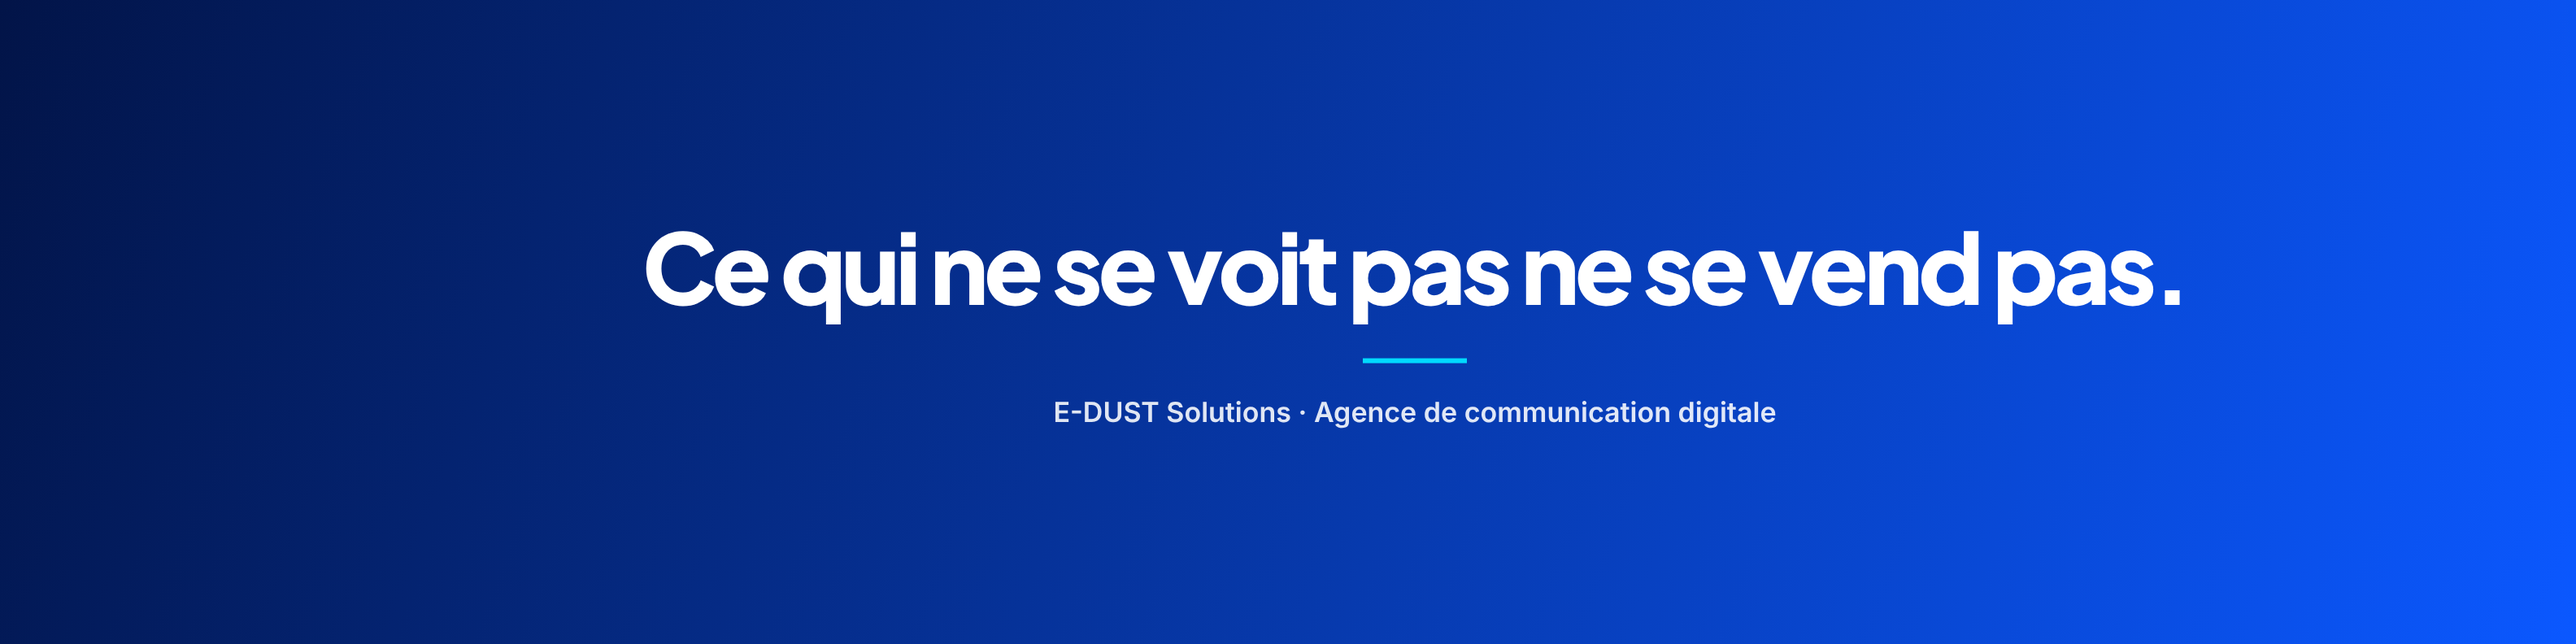
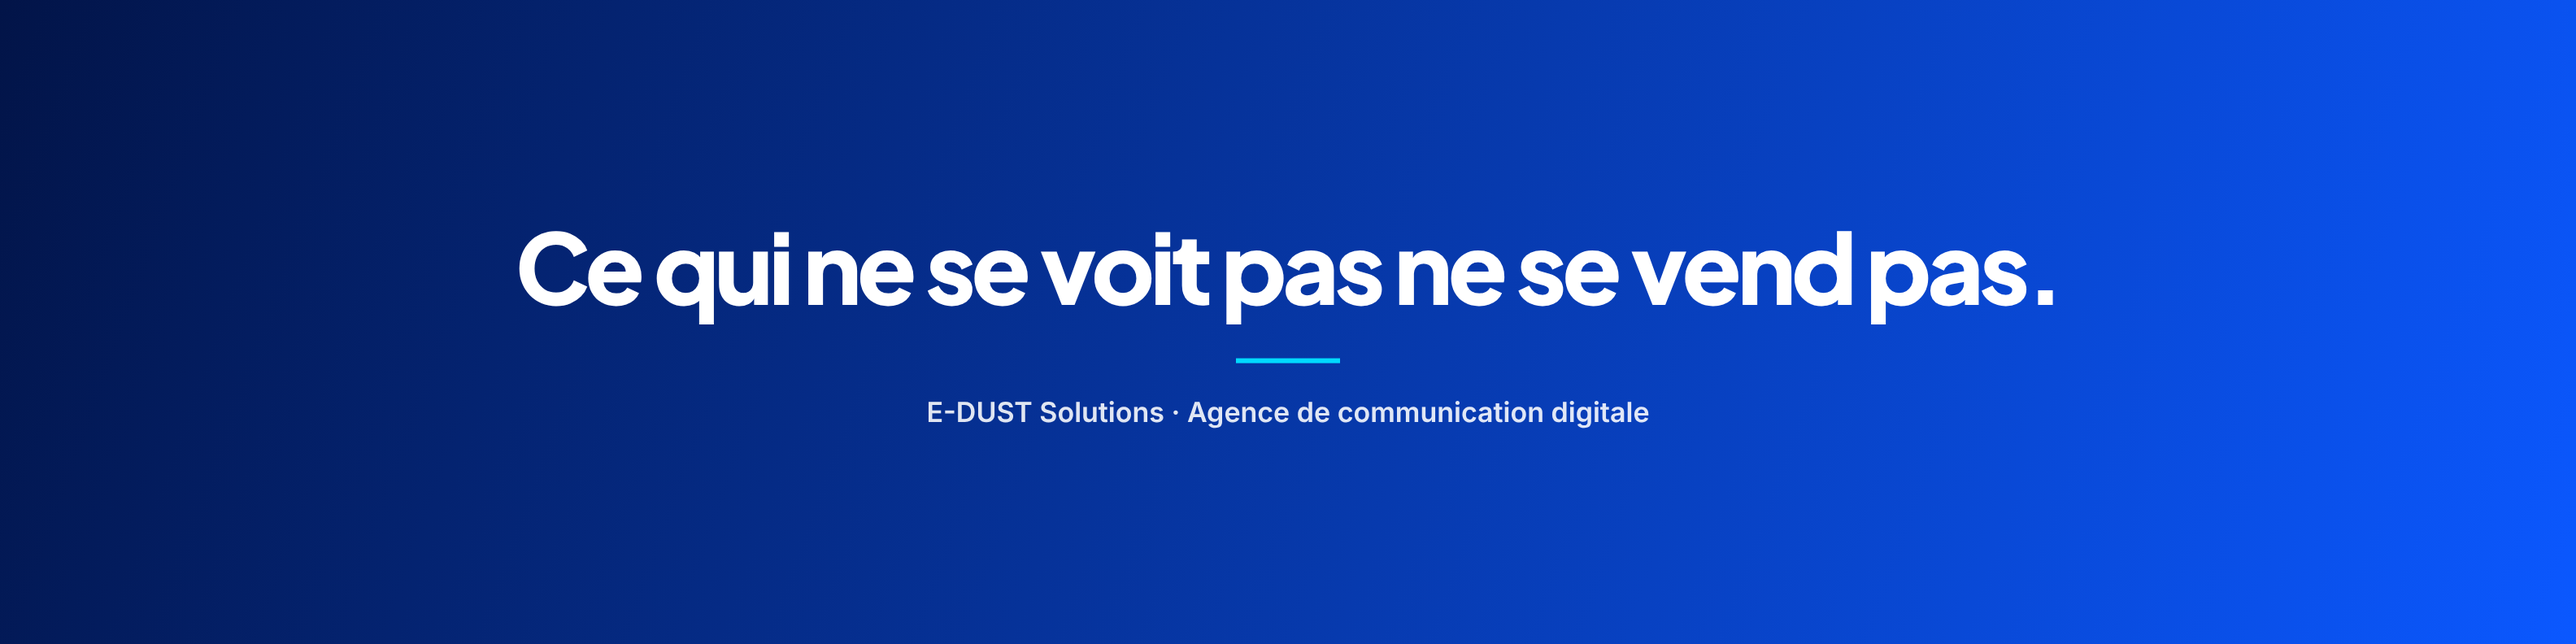
Bannière finale : titre et sous-titre centrés sur la bannière
Claude-Session: https://claude.ai/code/session_01FgwsmmbT7kUC12Hkbk3v3D

Changed region(s): [[0.1875, 0.3636, 0.8438, 0.5152], [0.3438, 0.6061, 0.6875, 0.6667], [0.4688, 0.5455, 0.5625, 0.5758]]

diff --git a/agence/linkedin/source/banniere-degrade-positions.html b/agence/linkedin/source/banniere-degrade-positions.html
@@ -36,7 +36,7 @@
 
 <!-- C. Titre sur une ligne, centré -->
 <section class="bn" id="l">
-  <div style="position:absolute; left:870px; top:50%; transform:translate(-50%,-50%); text-align:center; width:1100px">
+  <div style="position:absolute; left:0; right:0; top:50%; transform:translateY(-50%); text-align:center">
     <h1 style="font-size:60px">Ce qui ne se voit pas ne se vend pas.</h1>
     <div class="bar" style="margin:26px auto 0"></div>
     <p class="t" style="margin-top:20px; color:rgba(255,255,255,.88)">E-DUST Solutions · Agence de communication digitale</p>
